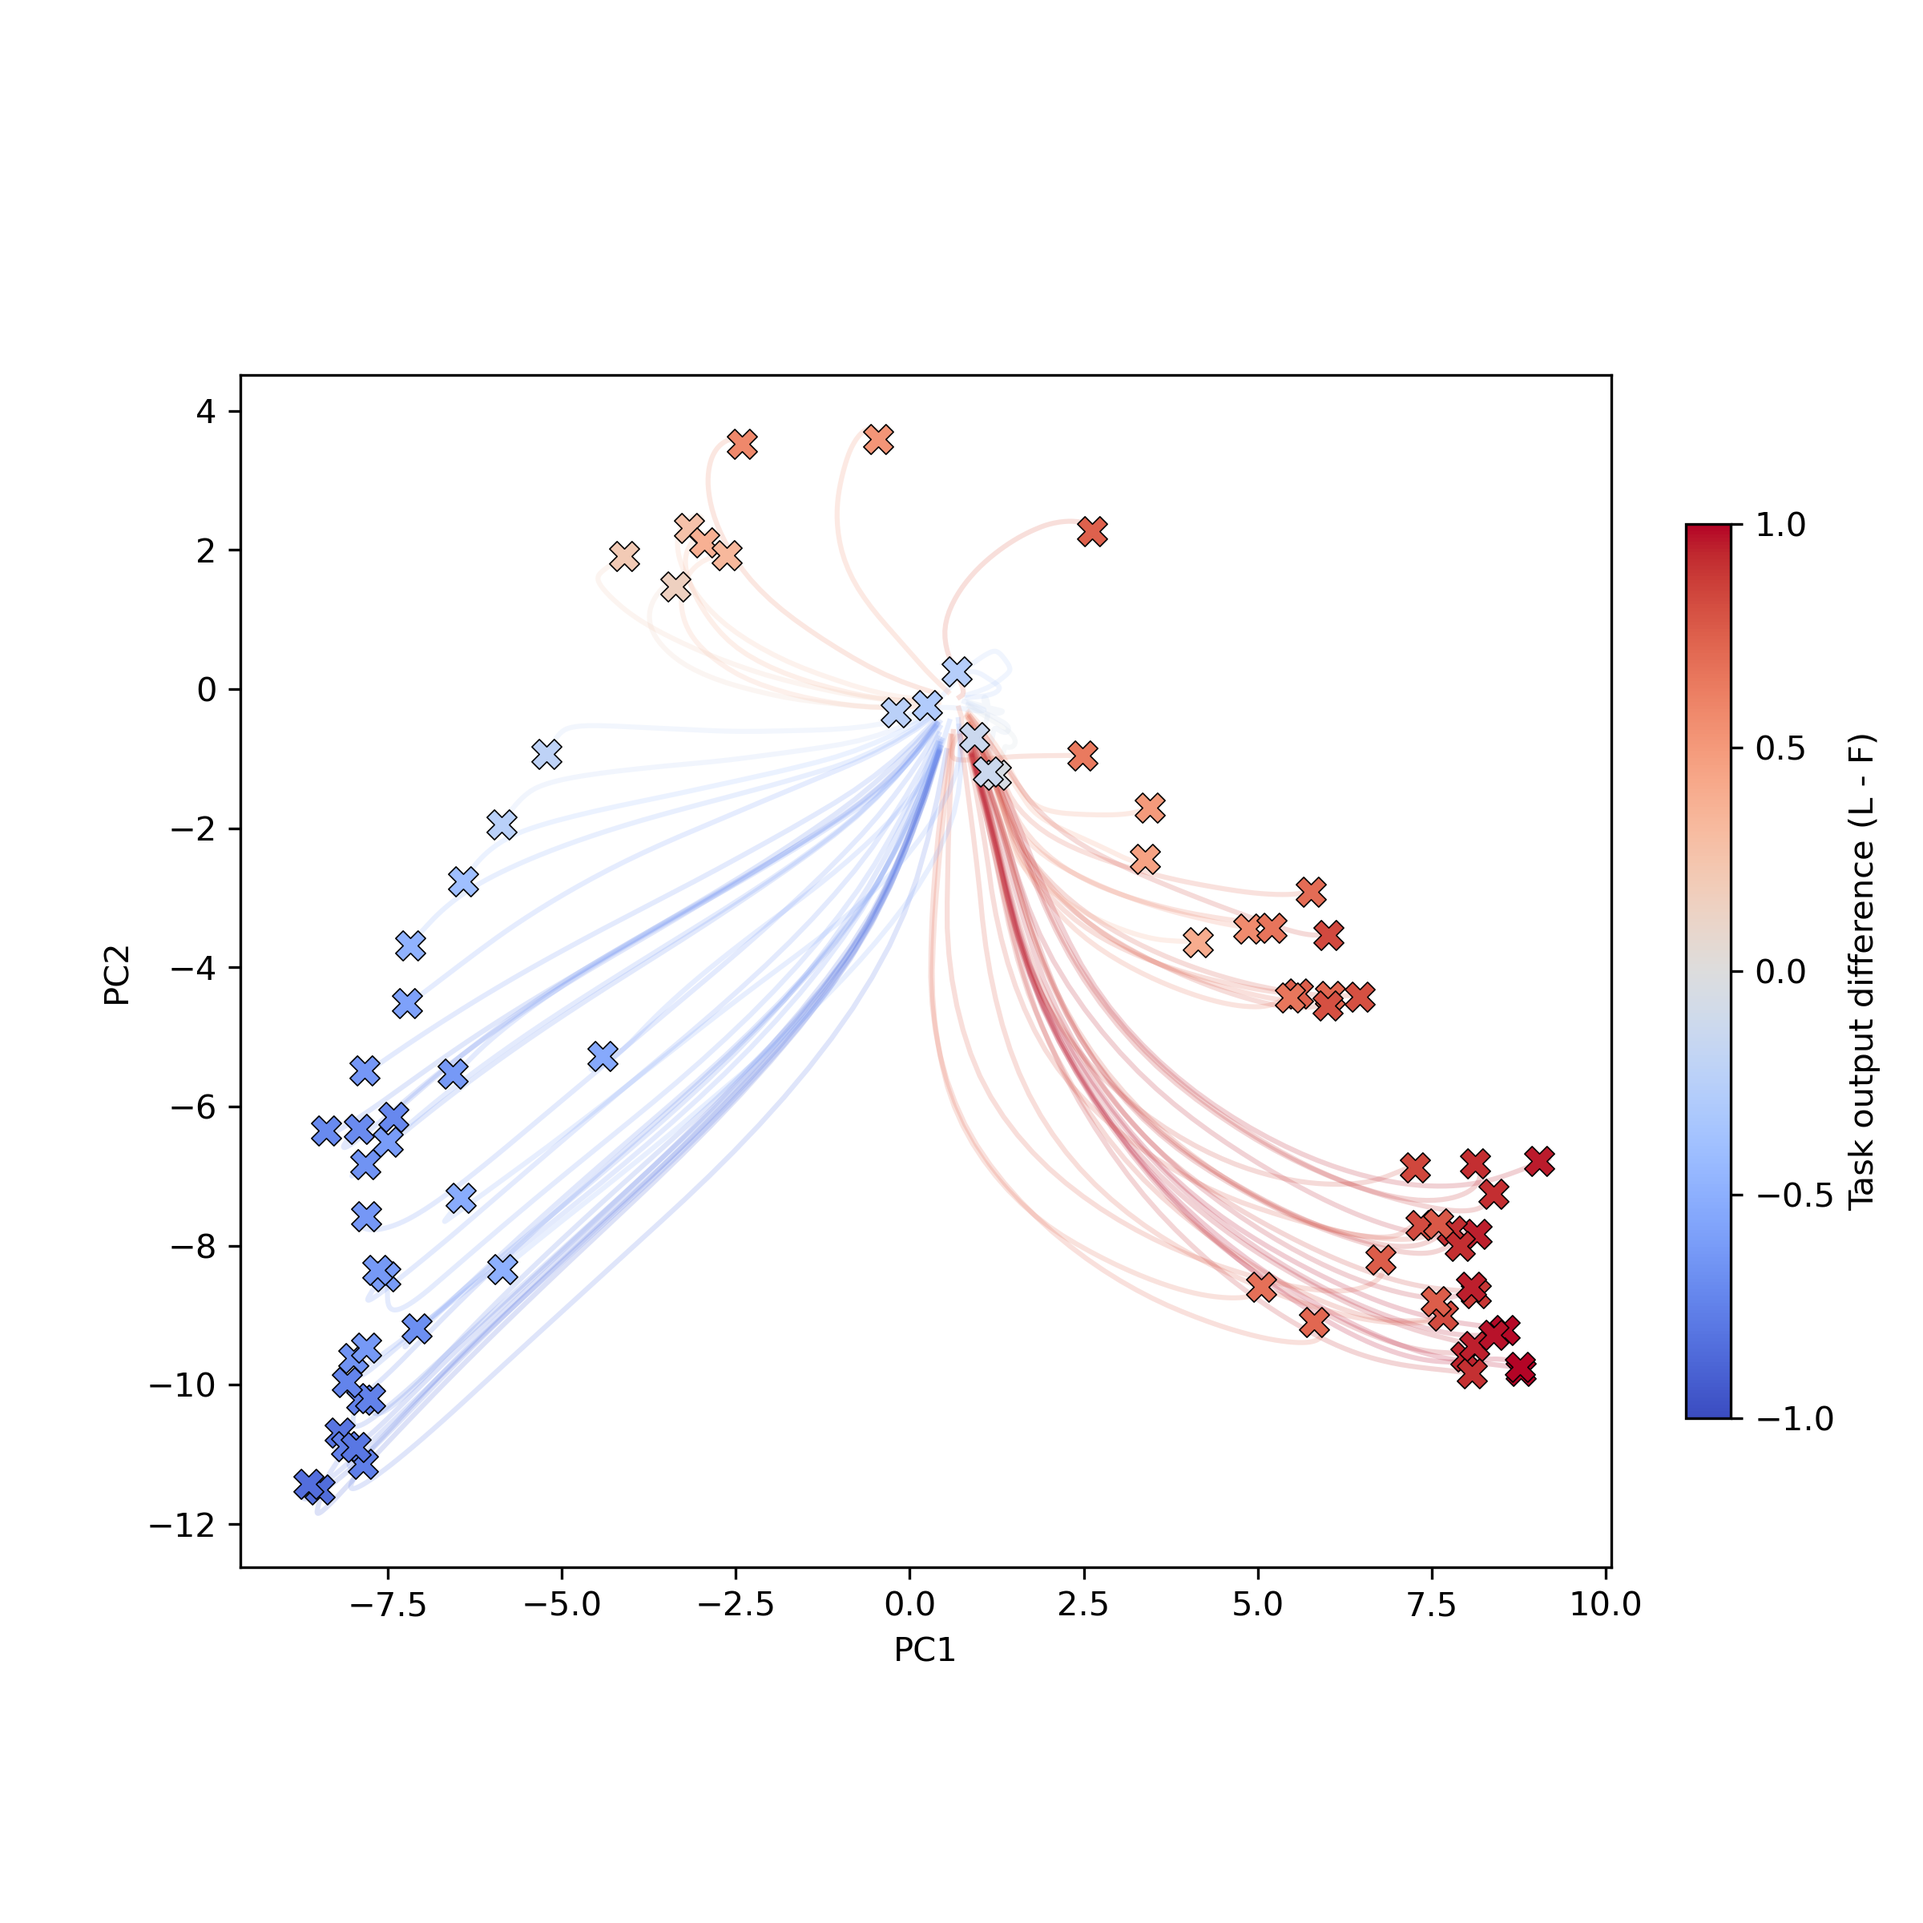
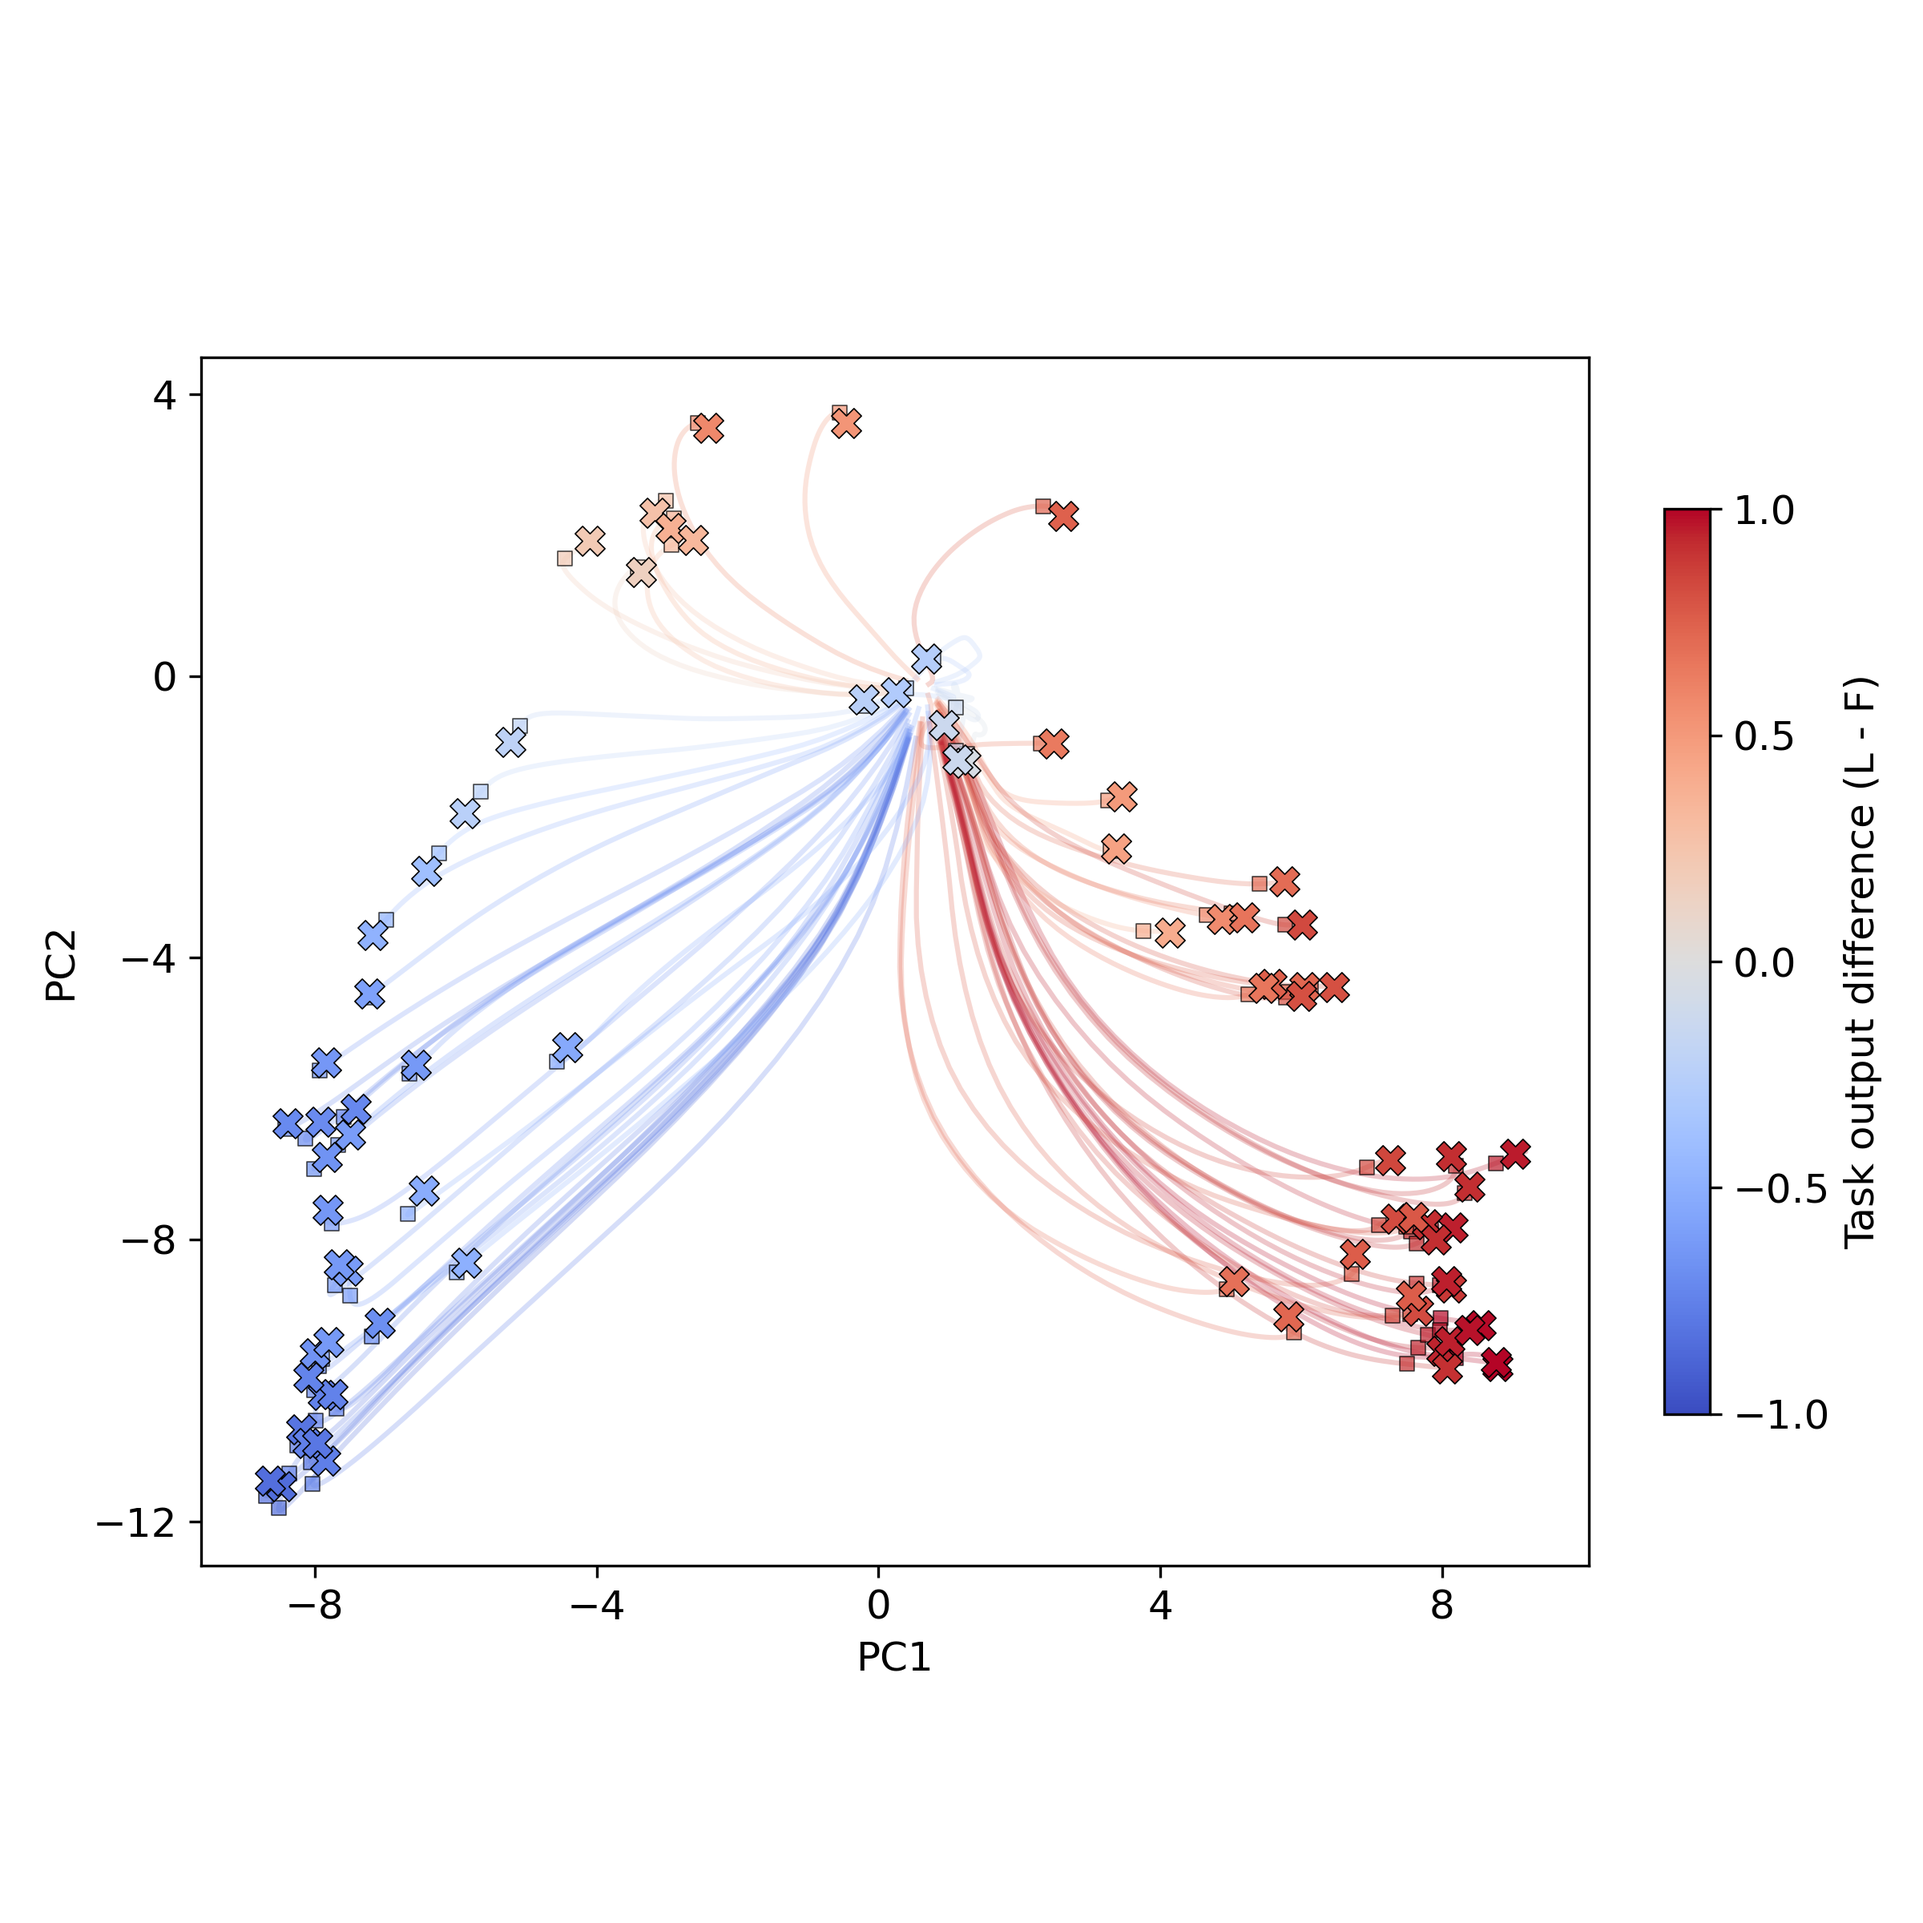
contraction progress

diff --git a/contraction.py b/contraction.py
@@ -7,6 +7,7 @@ from psychrnn.backend.simulation import BasicSimulator
 from sklearn.decomposition import PCA
 import matplotlib.pyplot as plt
 import matplotlib.cm as cm
+from matplotlib import rcParams
 from matplotlib.colors import Normalize
 from model_behavior_functions import get_tasks
 
@@ -46,7 +47,7 @@ def get_test_inputs_longdelay2(tparams, delay_dur=500):
 
     return x_t
 
-#%% 
+#%% Load model weights and existing test data
 N_rec = 200
 
 # Load the model and monkey trial history params
@@ -54,14 +55,12 @@ name, testname, folder = \
     'MM1_monkeyB1245', 'alltestinds_noisevis0.8mem0.5rec0.1', 'monkey_choice_model'
     #'SH2_correctA', 'monkeyhist_alltestinds_noisevis0.8mem0.5rec0.1', 'correct_choice_model'
     #
-    
+print(name)
 weights_path = f'./{folder}/weights/{name}.npz'
 loaded_tparams = pickle.load(open(f'./{folder}/test_data/{name}_{testname}_trialparams.pickle', 'rb'))
 loaded_outputs = pickle.load(open(f'./{folder}/test_data/{name}_{testname}_modeloutput.pickle', 'rb'))
 modelchoices = np.argmax(loaded_outputs[:, -1, 2:6], axis=1) + 1
 modeltasks = get_tasks(modelchoices)
-SL_inds = np.where(modeltasks==1)[0]
-SF_inds = np.where(modeltasks==2)[0]
 
 # Get number of preceding rewards
 a1R, a1NR, a2R, a2NR = [], [], [], []
@@ -76,15 +75,15 @@ for i in range(loaded_tparams.shape[0]):
             a1NR.append(i)
         else:
             a2NR.append(i)
-
-taskoutdiff = loaded_outputs[:, -1, 0] - loaded_outputs[:, -1, 1] # SL - SF
+'''
+taskoutdiff_loaded = loaded_outputs[:, -1, 0] - loaded_outputs[:, -1, 1] # SL - SF
 plt.figure()
-plt.hist(taskoutdiff[a2R], bins=20, alpha=0.5, label='a2R')
-plt.hist(taskoutdiff[a1R], bins=20, alpha=0.5, label='a1R')
-plt.hist(taskoutdiff[a1NR], bins=20, alpha=0.5, label='a1NR')
-plt.hist(taskoutdiff[a2NR], bins=20, alpha=0.5, label='a2NR')
+plt.hist(taskoutdiff_loaded[a2R], bins=20, alpha=0.5, label='a2R')
+plt.hist(taskoutdiff_loaded[a1R], bins=20, alpha=0.5, label='a1R')
+plt.hist(taskoutdiff_loaded[a1NR], bins=20, alpha=0.5, label='a1NR')
+plt.hist(taskoutdiff_loaded[a2NR], bins=20, alpha=0.5, label='a2NR')
 plt.legend()
-
+'''
 #%% Define test inputs for long delay 1, reward hist conditions
 
 N_per_cond = 20
@@ -97,7 +96,6 @@ loaded_inds = np.concatenate((
     ))
 
 tparams = []
-colors = []
 for i, ind in  enumerate(loaded_inds):
     tparams.append({})
     tparams[i]['trial_ind'] = loaded_tparams[ind]['trial_ind']
@@ -106,23 +104,22 @@ for i, ind in  enumerate(loaded_inds):
     tparams[i]['dsl'] = loaded_tparams[ind]['dsl']
     tparams[i]['dsf'] = loaded_tparams[ind]['dsf']
 
+delaylabel = 'delay1'
 dur = 400
 test_inputs = get_test_inputs_longdelay1(tparams, delay_dur=dur)
 
 #%% Define test inputs for long delay 2, reward hist x stim1 conditions
 
-N_per_cond = 10
+N_per_cond = 20
 np.random.seed(2152)
 loaded_inds = np.concatenate((
-    np.random.choice(np.intersect1d(a2NR, SL_inds), N_per_cond, replace=False), 
-    np.random.choice(np.intersect1d(a2NR, SF_inds), N_per_cond, replace=False),
-    np.random.choice(np.intersect1d(a2R, SL_inds), N_per_cond, replace=False),
-    np.random.choice(np.intersect1d(a2R, SF_inds), N_per_cond, replace=False)
+    np.random.choice(a2NR, N_per_cond, replace=False), 
+    np.random.choice(a2R, N_per_cond, replace=False),
+    np.random.choice(a1NR, N_per_cond, replace=False),
+    np.random.choice(a1R, N_per_cond, replace=False)
     ))
 
-stim1s = [(2.5, 2.3), (2.5, 2.7), (2.3, 2.5), (2.7, 2.5)] # (SL, SF)
-cm_dict = {'a2NR_SL':cm['Reds'], 'a2NR_SF':cm['Purples'], 'a2R_SL':cm['Blues'], 'a2R_SF':cm['Greens']}
-colors = []
+stim1s = [(2.5, 2.1), (2.5, 2.9), (2.1, 2.5), (2.9, 2.5), (2.5, 2.5)] # (SL, SF)
 tparams = []
 for i, ind in  enumerate(loaded_inds):
     for j in range(len(stim1s)):
@@ -133,28 +130,12 @@ for i, ind in  enumerate(loaded_inds):
         tparams[t]['correct'] = loaded_tparams[ind]['correct']
         tparams[t]['dsf'] = loaded_tparams[ind]['dsf']
         tparams[t]['dsl'] = loaded_tparams[ind]['dsl']
-        tparams[t]['sf1'] = stim1s[j][0]
-        tparams[t]['sl1'] = stim1s[j][1]
-
-        # define colors
-        if i//N_per_cond == 0:
-            cmap = cm_dict['a2NR_SL']
-            x = (stim1s[j][0] - 2.0)
-            colors.append(cmap(x))
-        elif i//N_per_cond == 1:
-            cmap = cm_dict['a2NR_SF']
-            x = (stim1s[j][0] - 2.0)
-            colors.append(cmap(x))
-        elif i//N_per_cond == 2:
-            cmap = cm_dict['a2R_SL']
-            x = (stim1s[j][0] - 2.0)
-            colors.append(cmap(x))
-        elif i//N_per_cond == 3:
-            cmap = cm_dict['a2R_SF']
-            x = (stim1s[j][0] - 2.0)
-            colors.append(cmap(x))
-
-test_inputs = get_test_inputs_longdelay2(tparams, delay_dur=300)
+        tparams[t]['sl1'] = stim1s[j][0]
+        tparams[t]['sf1'] = stim1s[j][1]
+        
+delaylabel = 'delay2'
+dur = 400
+test_inputs = get_test_inputs_longdelay2(tparams, delay_dur=dur)
 
 #%% Run the simulation
 
@@ -173,45 +154,138 @@ model_output, state_var = simulator.run_trials(test_inputs)
 taskoutdiff_longdelay = model_output[:, -1, 0] - model_output[:, -1, 1] # SL - SF
 colors_taskoutdiff = cm.coolwarm((taskoutdiff_longdelay + 1)/2)
 
-# %% PCA for visualization
+# %% PCA for visualization, on all trials
 
-t_pca = np.arange(state_var.shape[1]-1, state_var.shape[1])
+tpca_label = 'last' #'stim1off' #
+t_pca = np.arange(state_var.shape[1]-1, state_var.shape[1]) # np.arange(70, 71) 
 sv_pca = state_var[:, t_pca, :]
 pca = PCA(n_components=3)
 pca.fit_transform(sv_pca.reshape(-1, sv_pca.shape[-1]))
 print(pca.explained_variance_ratio_)
 X = state_var @ pca.components_.T
 
-#%% 3D plot
+#%% 3D plot, all trials, color by task output difference
 
 #%matplotlib widget
 fig = plt.figure(figsize=(8, 8))
 ax = fig.add_subplot(111, projection='3d')
 for i in range(N_batch):
     c = colors_taskoutdiff[i]
-    ax.plot(X[i, 70:, 0], X[i, 70:, 1], X[i, 70:, 2], color=c, zorder=0)
-    '''
-    ax.scatter(X[i, 69, 0], X[i, 69, 1], X[i, 69, 2], marker='v', edgecolor='k',
-               color=c, s=50, alpha=1, zorder=1)
-    ax.scatter(X[i, 109, 0], X[i, 109, 1], X[i, 109, 2], marker='o', edgecolor='k', 
-               color=c, s=50, alpha=1, zorder=1)
-    '''
+    ax.plot(X[i, :, 0], X[i, :, 1], X[i, :, 2], color=c, zorder=0, alpha=0.25)
     ax.scatter(X[i, -1, 0], X[i, -1, 1], X[i, -1, 2], marker='X', edgecolor='k', 
-               color=c, s=50, alpha=1, zorder=1)
+               lw=0.5, color=c, s=80, alpha=1, zorder=1)
     
-# %%2D plot 
+#%% 2D plot, all trials, color by task output difference
 
 fig, ax = plt.subplots(figsize=(8, 8))
+rcParams['font.size'] = 12
 for i in range(N_batch):
     c = colors_taskoutdiff[i]
-    ax.plot(X[i, :, 0], X[i, :, 1], color=c, zorder=0, alpha=0.2)
+    ax.plot(X[i, :, 0], X[i, :, 1], color=c, zorder=0, alpha=0.25)
+    ax.scatter(X[i, 50, 0], X[i, 50, 1], marker='s', edgecolor='k', lw=0.4,
+               color=c, s=20, alpha=0.7, zorder=1)
     ax.scatter(X[i, -1, 0], X[i, -1, 1], marker='X', edgecolor='k', lw=0.4,
-               color=c, s=80, alpha=1, zorder=1)
+               color=c, s=80, alpha=1, zorder=2)
 ax.set_aspect('equal')
-ax.set(xlabel='PC1', ylabel='PC2')
+ax.set(xlabel='PC1', ylabel='PC2', 
+       xticks=np.arange(-8, 13, 4), yticks=np.arange(-12, 1, 4)
+       )
 cbar = plt.colorbar(cm.ScalarMappable(cmap=cm.coolwarm, norm=Normalize(-1, 1)), 
                     ax=ax, fraction=0.03, label='Task output difference (L - F)')
 cbar.set_ticks([-1, -0.5, 0, 0.5, 1])
+plt.tight_layout()
+#plt.savefig(f'./contraction_figs/{name}_{delaylabel}dur{dur}_tPCA{tpca_label}.png', dpi=300)
 
-#plt.savefig(f'./contraction_figs/{name}_delay1dur{dur}_tPCAlast.png', dpi=300)
-# %%
+#%% Choose a subset of task certainty conditions to plot
+
+np.random.seed(2152)
+diff_dig = np.digitize(taskoutdiff_longdelay, [-1, -0.8, -0.4, -0.2, 0.2, 0.4, 0.8, 1])
+toplot = [np.random.choice(np.intersect1d(np.where(diff_dig==i)[0], 
+            np.arange(0, diff_dig.shape[0], len(stim1s)))) for i in [3]] #[1, 3, 5, 7] 
+print(taskoutdiff_longdelay[toplot])
+
+# PCA on the trials defined by this subset
+tpca_label = 'stim1offplottedtrials'
+t_pca = np.arange(70, 71)
+pca_trials = np.concatenate([np.arange(i, i+len(stim1s)) for i in toplot])
+sv_pca = state_var[pca_trials, t_pca, :]
+pca = PCA(n_components=3)
+pca.fit_transform(sv_pca.reshape(-1, sv_pca.shape[-1]))
+print(pca.explained_variance_ratio_)
+X = state_var @ pca.components_.T
+
+#%% 2D plot for a subset of trials, color by relevant/irrelevant stim1
+
+fig, ax = plt.subplots(figsize=(8, 8))
+rcParams['font.size'] = 12
+colorby = 'rel' # 'irrel' #
+
+for i, ind in enumerate(toplot):
+
+    c1 = colors_taskoutdiff[ind]
+    rel = 'L' if taskoutdiff_longdelay[ind] > 0 else 'F'
+
+    ax.scatter(X[ind, 50, 0], X[ind, 50, 1], marker='s', edgecolor='k', 
+               lw=0.2, color=c1, s=60, alpha=1, zorder=1)
+
+    for j in range(len(stim1s)):
+
+        if (rel=='L' and colorby=='rel') or (rel=='F' and colorby=='irrel'):
+            c2 = cm.plasma((stim1s[j][0] - 2))
+            c3 = cm.plasma((stim1s[j][1] - 2))
+        elif (rel=='F' and colorby=='rel') or (rel=='L' and colorby=='irrel'):
+            c2 = cm.plasma((stim1s[j][1] - 2))
+            c3 = cm.plasma((stim1s[j][0] - 2))
+
+        ax.plot(X[ind+j, 50:, 0], X[ind+j, 50:, 1], color=c2, zorder=0, alpha=0.8)
+        ax.scatter(X[ind+j, 70, 0], X[ind+j, 70, 1], marker='>', edgecolor=c3, 
+                   lw=1.2, color=c2, s=80, alpha=1, zorder=2)
+        ax.scatter(X[ind+j, 110, 0], X[ind+j, 110, 1], marker='o', edgecolor=c3, 
+                   lw=1.2, color=c2, s=80, alpha=1, zorder=2)
+        ax.scatter(X[ind+j, -1, 0], X[ind+j, -1, 1], marker='X', edgecolor='k', 
+                   lw=0.2, color=c1, s=80, alpha=1, zorder=1)
+ 
+#ax.set_aspect('equal')
+ax.set(xlabel='PC1', ylabel='PC2')
+cbar = plt.colorbar(cm.ScalarMappable(cmap=cm.plasma, norm=Normalize(2, 3)), 
+                    ax=ax, fraction=0.02, label='Stimulus feature')
+cbar.set_ticks([2, 2.5, 3])
+plt.tight_layout()
+
+taskdiffs = np.round(taskoutdiff_longdelay[toplot], 3)
+#plt.savefig(f'./contraction_figs/{name}_{delaylabel}dur{dur}_tPCA{tpca_label}_{taskdiffs}.png', dpi=300)
+
+# %% 3D plot for a subset of trials, color by relevant/irrelevant stim1
+
+fig = plt.figure(figsize=(8, 8))
+ax = fig.add_subplot(111, projection='3d')
+rcParams['font.size'] = 12
+colorby = 'rel'
+# %matplotlib widget
+
+for i, ind in enumerate(toplot):
+
+    c1 = colors_taskoutdiff[ind]
+    rel = 'L' if taskoutdiff_longdelay[ind] > 0 else 'F'
+
+    ax.scatter(X[ind, 50, 0], X[ind, 50, 1], X[ind, 50, 2], marker='s', edgecolor='k', 
+               lw=0.4, color=c1, s=40, alpha=1, zorder=1)
+
+    for j in range(len(stim1s)):
+
+        if rel=='L' and colorby=='rel':
+            c2 = cm.plasma((stim1s[j][0] - 2))
+        elif rel=='F' and colorby=='rel':
+            c2 = cm.plasma((stim1s[j][1] - 2))
+
+        ax.plot(X[ind+j, 50:, 0], X[ind+j, 50:, 1], X[ind+j, 50:, 2], 
+                    color=c2, zorder=0, alpha=0.8)
+        ax.scatter(X[ind+j, 70, 0], X[ind+j, 70, 1], X[ind+j, 70, 2], 
+                    marker='>', edgecolor='k', lw=0.4, color=c2, s=40, alpha=1, zorder=1)
+        ax.scatter(X[ind+j, 110, 0], X[ind+j, 110, 1], X[ind+j, 110, 2], 
+            marker='o', edgecolor='k', lw=0.4, color=c2, s=40, alpha=1, zorder=1)
+        ax.scatter(X[ind+j, -1, 0], X[ind+j, -1, 1], X[ind+j, -1, 2], 
+                    marker='X', edgecolor='k', lw=0.4, color='grey', s=40, alpha=1, zorder=2)
+
+
+#%%
